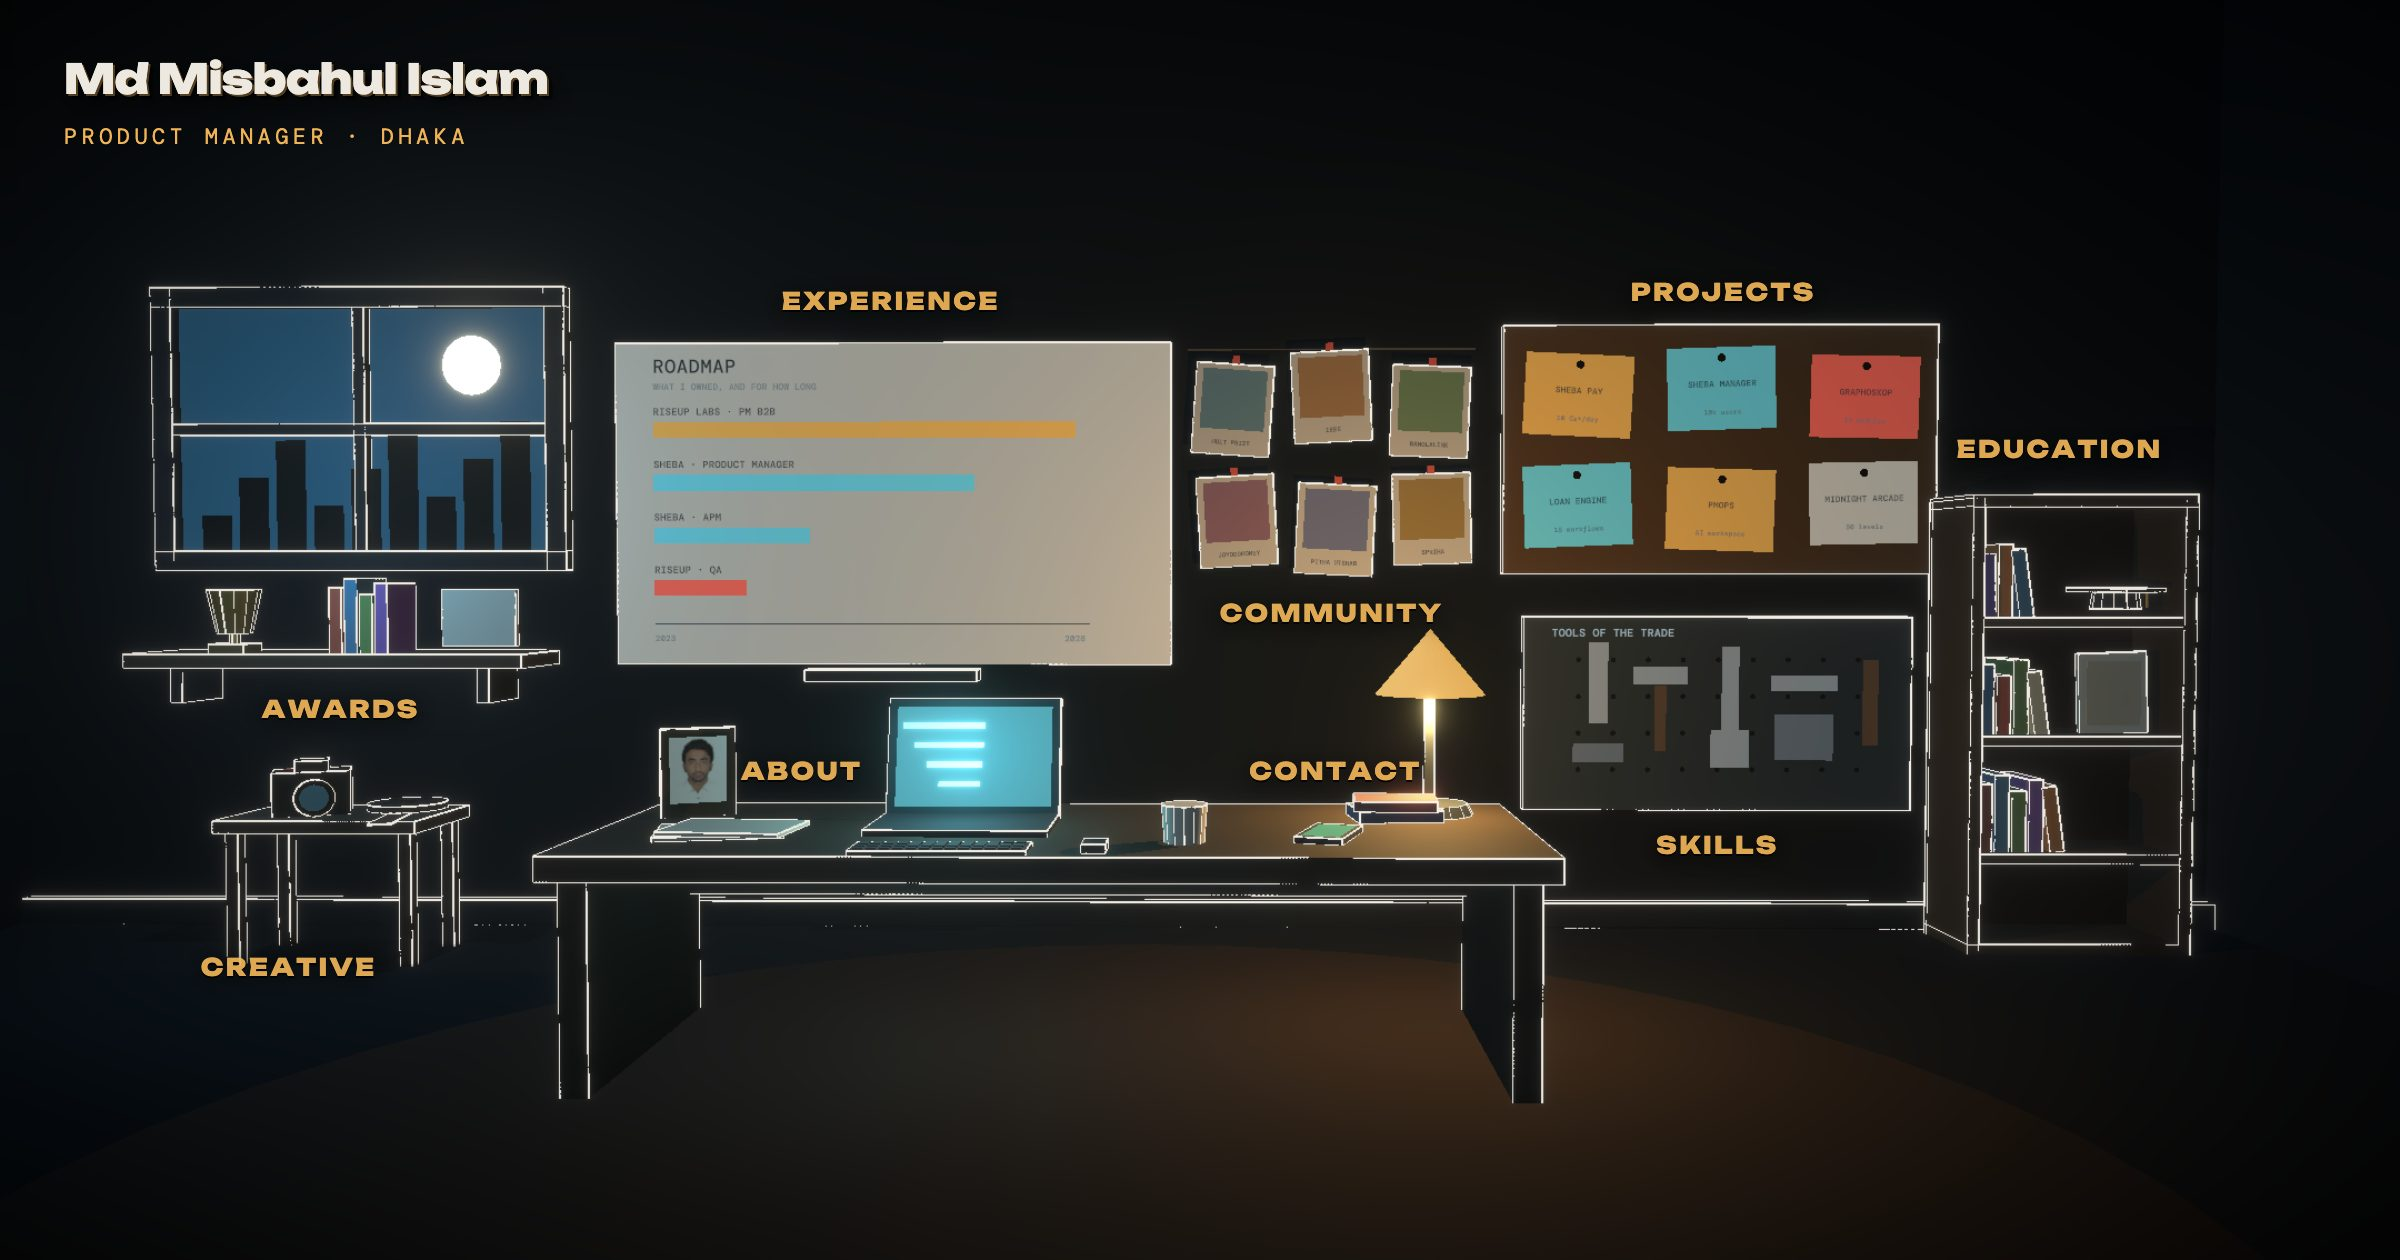
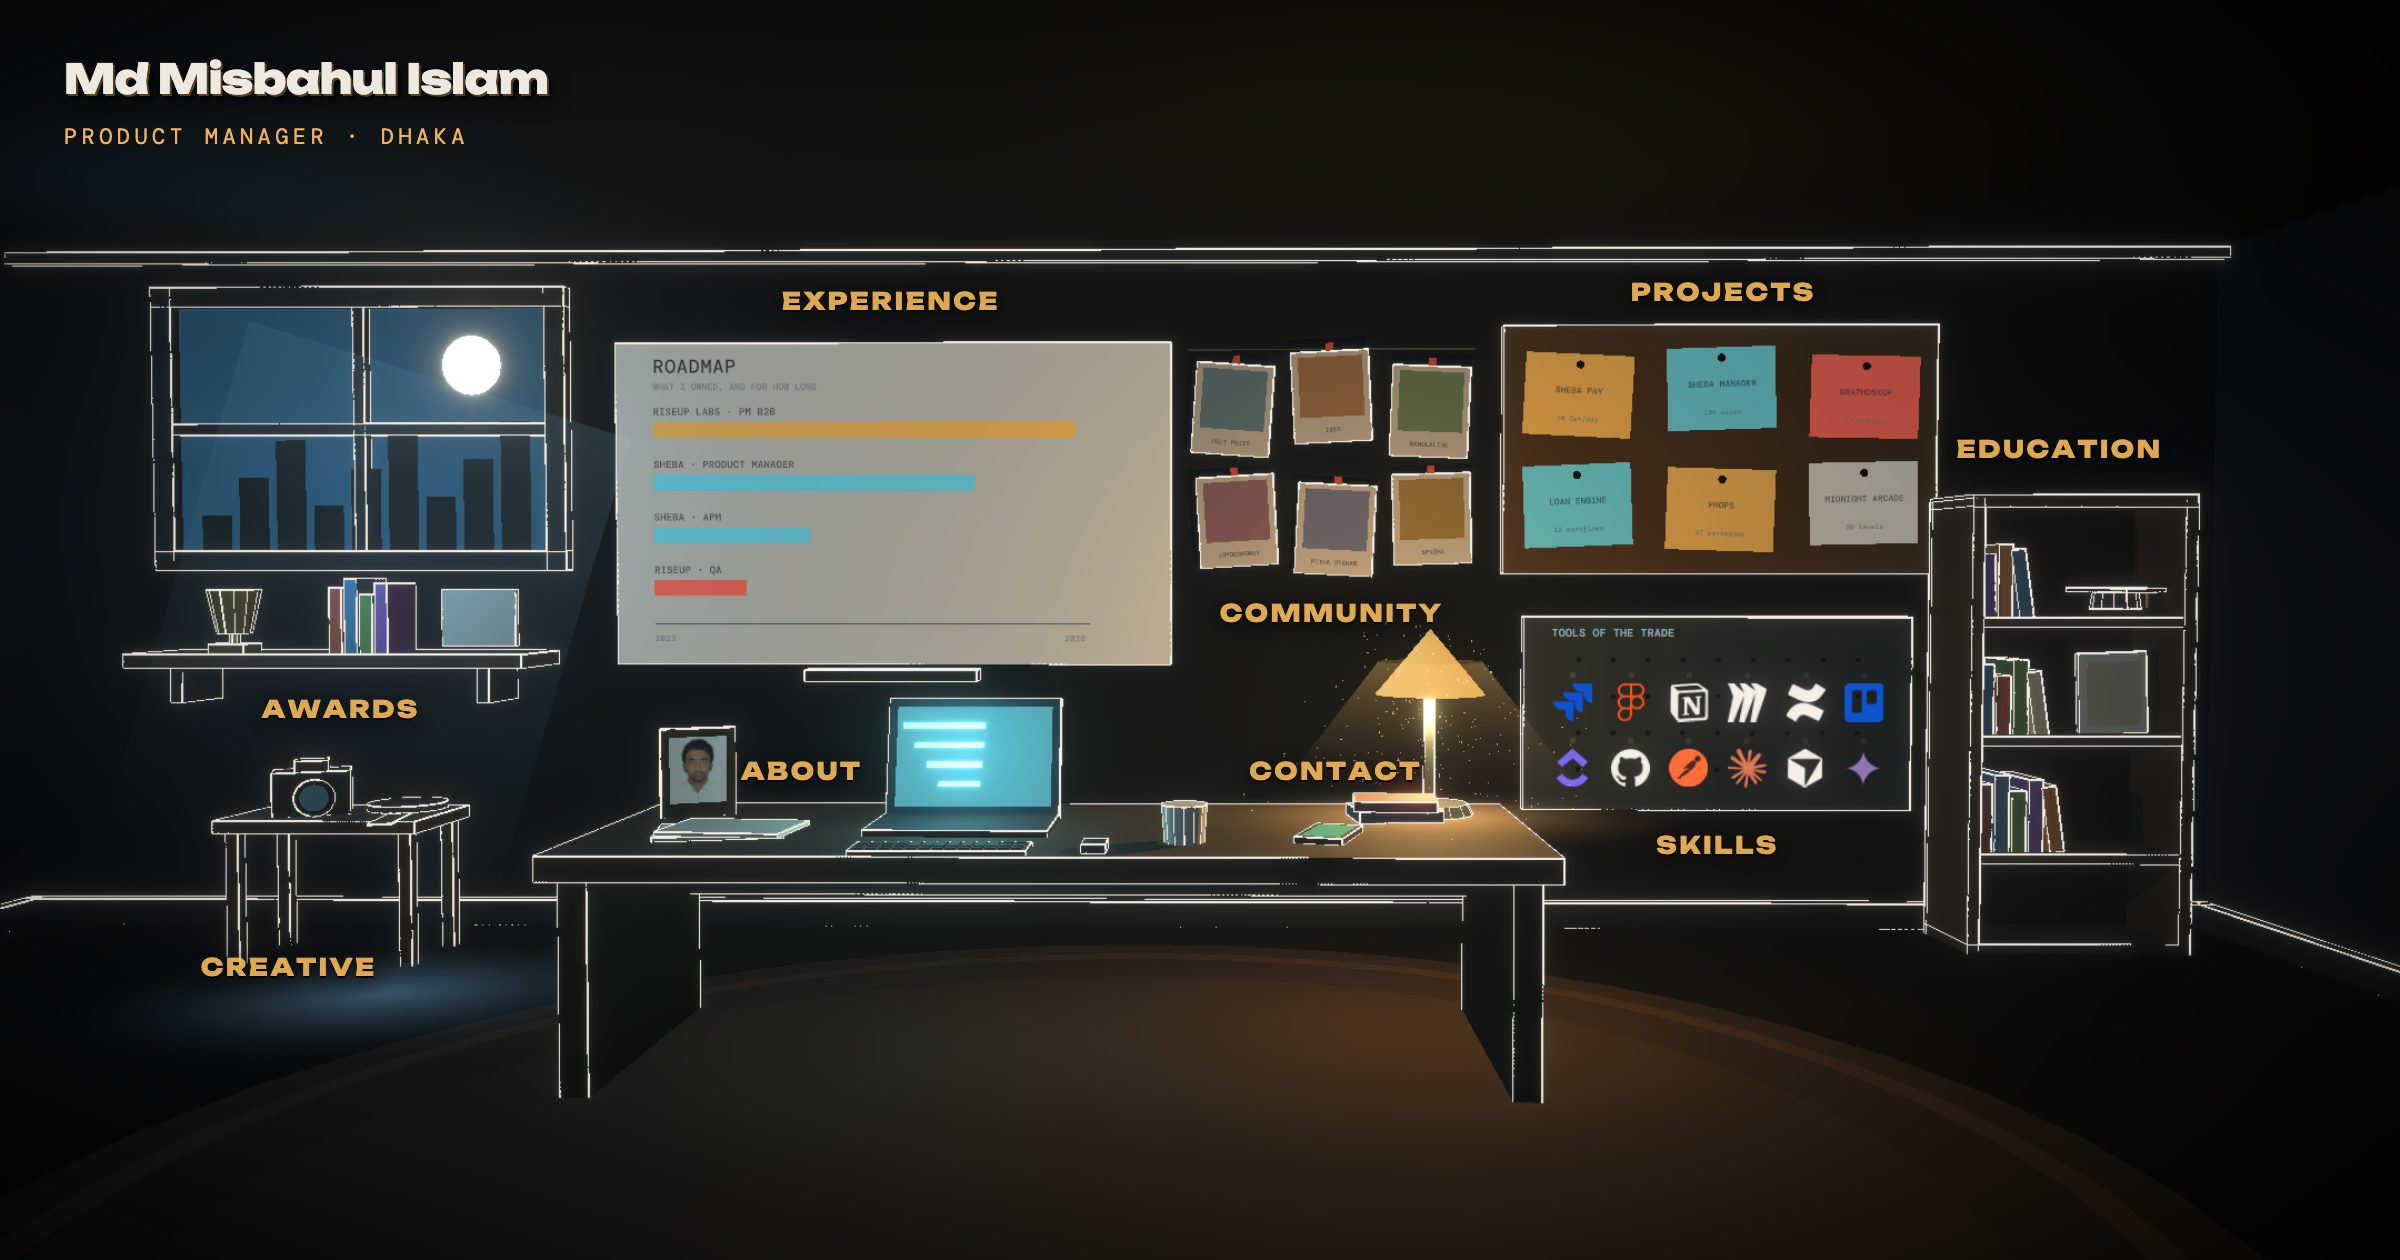
Light the room, and close the box it sits in
The objects read as floating against a dark wall rather than sitting in a
space. Shell() was the reason: no ceiling, so the room was an open-top box; one
flat plane for a floor, so nothing looked anchored; skirting on the back wall
only; and a rug that was a slightly different shade of dark.

Structure first, because the light needed something to fall on. Ceiling,
floorboards drawn as lines in the room's own idiom rather than a photographic
texture, skirting all round, a crown line, and a rug with a border. The ceiling
is single-sided facing down: at maxDistance and minPolarAngle the camera sits
well above it, and a double-sided ceiling would have hidden the entire room from
there — checked by orbiting to every limit and measuring how much of the frame
is not black.

Then the light itself. A visible cone under the lampshade, a cool shaft from the
window falling across the floorboards with a pool where it lands, a warm bounce
on the desk, and dust in the beam. All additive, depth-write off, opacity in the
0.05-0.08 range: bloom is already running and amplifies every bit of it.

Two things found while building it:

- The dust drift was 0.00018 added per frame. That is sub-pixel, so nothing
  moved, and being per-frame it would run at whatever speed the display
  refreshes and accumulate until the motes left the room. Positions are now
  derived from elapsed time as an offset from a fixed home. Measured: 351px of
  change over 1.8s normally, 0px under prefers-reduced-motion.
[…]

diff --git a/src/room/Room.tsx b/src/room/Room.tsx
@@ -140,6 +140,93 @@ function Cylinder({
 }
 
 /* ------------------------------------------------------------------ *
+ * Surfaces and light shapes, painted to canvases
+ * ------------------------------------------------------------------ */
+
+/** A vertical alpha ramp. Light with a hard edge reads as a solid object. */
+function useRampTexture(stops: [number, string][]) {
+  const texture = React.useMemo(() => {
+    const canvas = document.createElement('canvas');
+    canvas.width = 4;
+    canvas.height = 128;
+    const ctx = canvas.getContext('2d');
+    if (!ctx) return null;
+    const grad = ctx.createLinearGradient(0, 128, 0, 0);
+    for (const [at, colour] of stops) grad.addColorStop(at, colour);
+    ctx.fillStyle = grad;
+    ctx.fillRect(0, 0, 4, 128);
+    const t = new THREE.CanvasTexture(canvas);
+    t.colorSpace = THREE.SRGBColorSpace;
+    return t;
+  }, [stops]);
+  React.useEffect(() => () => texture?.dispose(), [texture]);
+  return texture;
+}
+
+/** A radial pool, for where light lands. */
+function usePoolTexture(colour: string) {
+  const texture = React.useMemo(() => {
+    const size = 128;
+    const canvas = document.createElement('canvas');
+    canvas.width = canvas.height = size;
+    const ctx = canvas.getContext('2d');
+    if (!ctx) return null;
+    const grad = ctx.createRadialGradient(size / 2, size / 2, 0, size / 2, size / 2, size / 2);
+    grad.addColorStop(0, colour);
+    grad.addColorStop(1, 'rgba(0,0,0,0)');
+    ctx.fillStyle = grad;
+    ctx.fillRect(0, 0, size, size);
+    const t = new THREE.CanvasTexture(canvas);
+    t.colorSpace = THREE.SRGBColorSpace;
+    return t;
+  }, [colour]);
+  React.useEffect(() => () => texture?.dispose(), [texture]);
+  return texture;
+}
+
+/** Floorboards, drawn the way the rest of the room is: lines, not photographs. */
+function useFloorTexture() {
+  const texture = React.useMemo(() => {
+    const w = 96;
+    const h = 256;
+    const canvas = document.createElement('canvas');
+    canvas.width = w;
+    canvas.height = h;
+    const ctx = canvas.getContext('2d');
+    if (!ctx) return null;
+    ctx.fillStyle = C.floor;
+    ctx.fillRect(0, 0, w, h);
+    // the seam between planks, and one butt joint per board
+    ctx.strokeStyle = 'rgba(0,0,0,0.85)';
+    ctx.lineWidth = 2;
+    ctx.beginPath();
+    ctx.moveTo(1, 0);
+    ctx.lineTo(1, h);
+    ctx.stroke();
+    ctx.strokeStyle = 'rgba(0,0,0,0.35)';
+    ctx.beginPath();
+    ctx.moveTo(0, 1);
+    ctx.lineTo(w, 1);
+    ctx.stroke();
+    // a faint highlight so a board has a top and a bottom
+    ctx.strokeStyle = 'rgba(237,233,224,0.075)';
+    ctx.lineWidth = 1;
+    ctx.beginPath();
+    ctx.moveTo(3, 0);
+    ctx.lineTo(3, h);
+    ctx.stroke();
+    const t = new THREE.CanvasTexture(canvas);
+    t.colorSpace = THREE.SRGBColorSpace;
+    t.wrapS = t.wrapT = THREE.RepeatWrapping;
+    t.repeat.set(26, 5);
+    t.anisotropy = 8;
+    return t;
+  }, []);
+  React.useEffect(() => () => texture?.dispose(), [texture]);
+  return texture;
+}
+
+/* ------------------------------------------------------------------ *
  * Hotspot — anything clickable in the room
  * ------------------------------------------------------------------ */
 
@@ -229,12 +316,13 @@ function Hotspot({
 const WALL_Z = -3;
 
 function Shell() {
+  const boards = useFloorTexture();
   return (
     <group>
       {/* floor */}
       <mesh rotation={[-Math.PI / 2, 0, 0]} position={[0, 0, 0]} receiveShadow>
         <planeGeometry args={[14, 10]} />
-        <meshStandardMaterial color={C.floor} roughness={1} />
+        <meshStandardMaterial color={C.floor} roughness={1} map={boards ?? undefined} />
       </mesh>
       {/* back wall */}
       <mesh position={[0, 2, WALL_Z - 0.05]} receiveShadow>
@@ -251,12 +339,38 @@ function Shell() {
         <planeGeometry args={[10, 6]} />
         <meshStandardMaterial color={C.wall} roughness={1} />
       </mesh>
-      {/* skirting, drawn as a line the way the rest of the room is */}
+      {/*
+        Ceiling. Front face points down, so it closes the box from inside and is
+        simply culled from above — which matters, because at maxDistance and
+        minPolarAngle the camera sits well above y=3.2, and a double-sided
+        ceiling would hide the entire room from there.
+      */}
+      <mesh rotation={[Math.PI / 2, 0, 0]} position={[0, 3.2, -0.4]}>
+        <planeGeometry args={[14, 10]} />
+        <meshStandardMaterial color="#0A1116" roughness={1} />
+      </mesh>
+
+      {/* skirting on all three walls, not just the back, so the floor meets
+          something everywhere it is visible */}
       <Box position={[0, 0.06, WALL_Z]} size={[10.4, 0.12, 0.06]} color={C.wall} />
-      {/* rug */}
+      <Box position={[-5.16, 0.06, -0.4]} size={[0.06, 0.12, 5.2]} color={C.wall} />
+      <Box position={[5.16, 0.06, -0.4]} size={[0.06, 0.12, 5.2]} color={C.wall} />
+      {/* and a line where wall meets ceiling */}
+      <Box position={[0, 3.16, WALL_Z + 0.02]} size={[10.4, 0.05, 0.05]} color={C.wall} />
+
+      {/* rug: a border and a lighter field, so it reads as a thing on the floor
+          rather than a slightly different shade of dark */}
       <mesh rotation={[-Math.PI / 2, 0, 0]} position={[0.2, 0.012, 0.35]}>
         <circleGeometry args={[2.9, 44]} />
-        <meshStandardMaterial color="#2E211A" roughness={1} />
+        <meshStandardMaterial color="#332419" roughness={1} />
+      </mesh>
+      <mesh rotation={[-Math.PI / 2, 0, 0]} position={[0.2, 0.014, 0.35]}>
+        <ringGeometry args={[2.62, 2.72, 44]} />
+        <meshStandardMaterial color="#4A3524" roughness={1} />
+      </mesh>
+      <mesh rotation={[-Math.PI / 2, 0, 0]} position={[0.2, 0.014, 0.35]}>
+        <circleGeometry args={[2.3, 40]} />
+        <meshStandardMaterial color="#3A2A1D" roughness={1} />
       </mesh>
     </group>
   );
@@ -774,6 +888,7 @@ function Lamp({ coarse }: { coarse: boolean }) {
         <sphereGeometry args={[0.045, 12, 10]} />
         <meshStandardMaterial color="#FFF0CE" emissive="#FFD79A" emissiveIntensity={3.2} />
       </mesh>
+      <LampCone />
       <pointLight
         position={[0, 0.44, 0.06]}
         intensity={5.2}
@@ -863,6 +978,185 @@ function Phone() {
         <meshStandardMaterial color="#123A2C" emissive="#4FD199" emissiveIntensity={0.5} />
       </mesh>
     </group>
+  );
+}
+
+/* ------------------------------------------------------------------ *
+ * Atmosphere — the light made visible
+ *
+ * All of it is additive, depth-write off, and deliberately faint. Bloom is
+ * already running over the top, so anything bright enough to look right
+ * without it will blow out with it.
+ * ------------------------------------------------------------------ */
+
+/** The lamp's cone. What turns "a dark room" into "a room lit by one lamp". */
+function LampCone() {
+  const ramp = useRampTexture([
+    [0, 'rgba(0,0,0,0)'],
+    [0.55, 'rgba(120,120,120,1)'],
+    [1, 'rgba(255,255,255,1)'],
+  ]);
+  if (!ramp) return null;
+  return (
+    <mesh position={[0, 0.28, 0.02]} renderOrder={2}>
+      {/* open-ended and tapered: the shade's mouth down to a pool on the desk */}
+      <cylinderGeometry args={[0.19, 0.62, 0.56, 24, 1, true]} />
+      <meshBasicMaterial
+        color="#FFC978"
+        transparent
+        opacity={0.075}
+        alphaMap={ramp}
+        blending={THREE.AdditiveBlending}
+        depthWrite={false}
+        side={THREE.DoubleSide}
+        toneMapped={false}
+      />
+    </mesh>
+  );
+}
+
+/** Where the lamp lands: the desk should look lit by it, not merely near it. */
+function DeskBounce() {
+  const pool = usePoolTexture('rgba(255,190,110,0.85)');
+  if (!pool) return null;
+  return (
+    <mesh rotation={[-Math.PI / 2, 0, 0]} position={[1.28, 0.796, -1.15]} renderOrder={1}>
+      <planeGeometry args={[2.1, 1.7]} />
+      <meshBasicMaterial
+        map={pool}
+        transparent
+        opacity={0.5}
+        blending={THREE.AdditiveBlending}
+        depthWrite={false}
+        toneMapped={false}
+      />
+    </mesh>
+  );
+}
+
+/**
+ * The window's shaft, and the pool where it lands.
+ *
+ * Held as a screen-facing plane rather than a slab angled through the room:
+ * angled correctly in 3D it is seen edge-on from the home camera and all but
+ * disappears, which is the opposite of the point.
+ */
+function WindowShaft() {
+  const ramp = useRampTexture([
+    [0, 'rgba(0,0,0,0)'],
+    [0.35, 'rgba(90,90,90,1)'],
+    [1, 'rgba(255,255,255,1)'],
+  ]);
+  const pool = usePoolTexture('rgba(120,175,215,0.8)');
+  if (!ramp || !pool) return null;
+  return (
+    <group>
+      <mesh position={[-3.15, 1.3, -2.2]} rotation={[0, 0, -0.3]} renderOrder={2}>
+        <planeGeometry args={[1.7, 2.5]} />
+        <meshBasicMaterial
+          color="#79B0D2"
+          transparent
+          opacity={0.055}
+          alphaMap={ramp}
+          blending={THREE.AdditiveBlending}
+          depthWrite={false}
+          side={THREE.DoubleSide}
+          toneMapped={false}
+        />
+      </mesh>
+      <mesh rotation={[-Math.PI / 2, 0, 0]} position={[-2.75, 0.02, -1.6]} renderOrder={1}>
+        <planeGeometry args={[2.6, 2.2]} />
+        <meshBasicMaterial
+          map={pool}
+          transparent
+          opacity={0.3}
+          blending={THREE.AdditiveBlending}
+          depthWrite={false}
+          toneMapped={false}
+        />
+      </mesh>
+    </group>
+  );
+}
+
+/** Dust in the lamp beam. Nothing says "air" like something floating in it. */
+function Dust({ count, still }: { count: number; still: boolean }) {
+  const points = React.useRef<THREE.Points>(null);
+
+  const { geometry, seeds, base } = React.useMemo(() => {
+    const positions = new Float32Array(count * 3);
+    const seeds = new Float32Array(count);
+    for (let i = 0; i < count; i++) {
+      // loosely inside the lamp's cone, a little wider so it does not look
+      // like the motes are trapped in a glass
+      const t = Math.random();
+      const radius = 0.18 + t * 0.75;
+      const angle = Math.random() * Math.PI * 2;
+      positions[i * 3] = 1.3 + Math.cos(angle) * radius * Math.random();
+      positions[i * 3 + 1] = 0.82 + (1 - t) * 0.62;
+      positions[i * 3 + 2] = -1.25 + Math.sin(angle) * radius * Math.random();
+      seeds[i] = Math.random() * Math.PI * 2;
+    }
+    const geometry = new THREE.BufferGeometry();
+    geometry.setAttribute('position', new THREE.BufferAttribute(positions, 3));
+    // keep the starting points: the drift is an offset from them, not an
+    // accumulation, so motes wander around a home rather than away forever
+    return { geometry, seeds, base: positions.slice() };
+  }, [count]);
+
+  React.useEffect(() => () => geometry.dispose(), [geometry]);
+
+  useFrame((state) => {
+    if (still || !points.current) return;
+    const attr = points.current.geometry.getAttribute('position') as THREE.BufferAttribute;
+    const array = attr.array as Float32Array;
+    const time = state.clock.elapsedTime;
+    for (let i = 0; i < count; i++) {
+      // Position derived from elapsed time, not nudged each frame: a per-frame
+      // delta runs at whatever speed the display happens to refresh at, and
+      // accumulates, so the motes slowly leave the room.
+      const seed = seeds[i];
+      array[i * 3] = base[i * 3] + Math.sin(time * 0.24 + seed) * 0.045;
+      array[i * 3 + 1] = base[i * 3 + 1] + Math.cos(time * 0.19 + seed * 1.7) * 0.055;
+      array[i * 3 + 2] = base[i * 3 + 2] + Math.sin(time * 0.16 + seed * 2.3) * 0.035;
+    }
+    attr.needsUpdate = true;
+  });
+
+  if (count === 0) return null;
+  return (
+    <points ref={points} geometry={geometry} renderOrder={3}>
+      <pointsMaterial
+        size={0.012}
+        sizeAttenuation
+        color="#FFD9A0"
+        transparent
+        opacity={0.55}
+        blending={THREE.AdditiveBlending}
+        depthWrite={false}
+        toneMapped={false}
+      />
+    </points>
+  );
+}
+
+/**
+ * The whole atmosphere pack. The meshes are a handful of transparent quads and
+ * stay on everywhere; only the dust count scales, since that is the part with a
+ * per-frame cost.
+ */
+function Atmosphere({ coarse, still }: { coarse: boolean; still: boolean }) {
+  const gpu = useDetectGPU();
+  const forced =
+    typeof window !== 'undefined' ? new URLSearchParams(window.location.search).get('fx') : null;
+  const tier = forced === '1' ? 3 : forced === '0' ? 0 : gpu.tier ?? 0;
+  const count = coarse ? 0 : tier >= 3 ? 260 : tier >= 2 ? 140 : 0;
+  return (
+    <>
+      <DeskBounce />
+      <WindowShaft />
+      <Dust count={count} still={still} />
+    </>
   );
 }
 
@@ -1080,6 +1374,7 @@ export function Room({
         {objects.phone}
       </Hotspot>
 
+      <Atmosphere coarse={isCoarse} still={reducedMotion} />
       <Glow coarse={isCoarse} />
 
       <OrbitControls
@@ -1089,8 +1384,8 @@ export function Room({
         enableDamping
         dampingFactor={0.08}
         minDistance={1.4}
-        maxDistance={16}
-        minPolarAngle={Math.PI * 0.16}
+        maxDistance={9.5}
+        minPolarAngle={Math.PI * 0.27}
         maxPolarAngle={Math.PI * 0.52}
         minAzimuthAngle={-Math.PI * 0.42}
         maxAzimuthAngle={Math.PI * 0.42}

diff --git a/README.md b/README.md
@@ -24,6 +24,23 @@ numbers; the polaroids are captioned. The window shows the Dhaka skyline at nigh
 and is deliberately not clickable: it places the room somewhere real without
 adding another thing to click.
 
+## Light
+
+The room is a night scene lit by one lamp, and now says so. The lampshade
+throws a visible cone with dust drifting in it, the window lays a cool shaft
+across the floorboards, and the desk carries a warm pool where the lamp lands.
+All of it is additive geometry with depth-write off and deliberately low
+opacity — bloom runs over the top, so anything bright enough to look right
+without it blows out with it.
+
+The shell closes the space: a ceiling (front face down, so it is culled from
+above and never occludes the camera), floorboards, skirting on all three walls
+and a rug that reads as an object. Without those the light had nothing to
+fall on.
+
+Dust count scales with GPU tier and is zero on touch devices; under
+`prefers-reduced-motion` the motes are present but still.
+
 ## No 3D assets
 
 Every object is assembled from three.js primitives — boxes, cylinders, planes —
